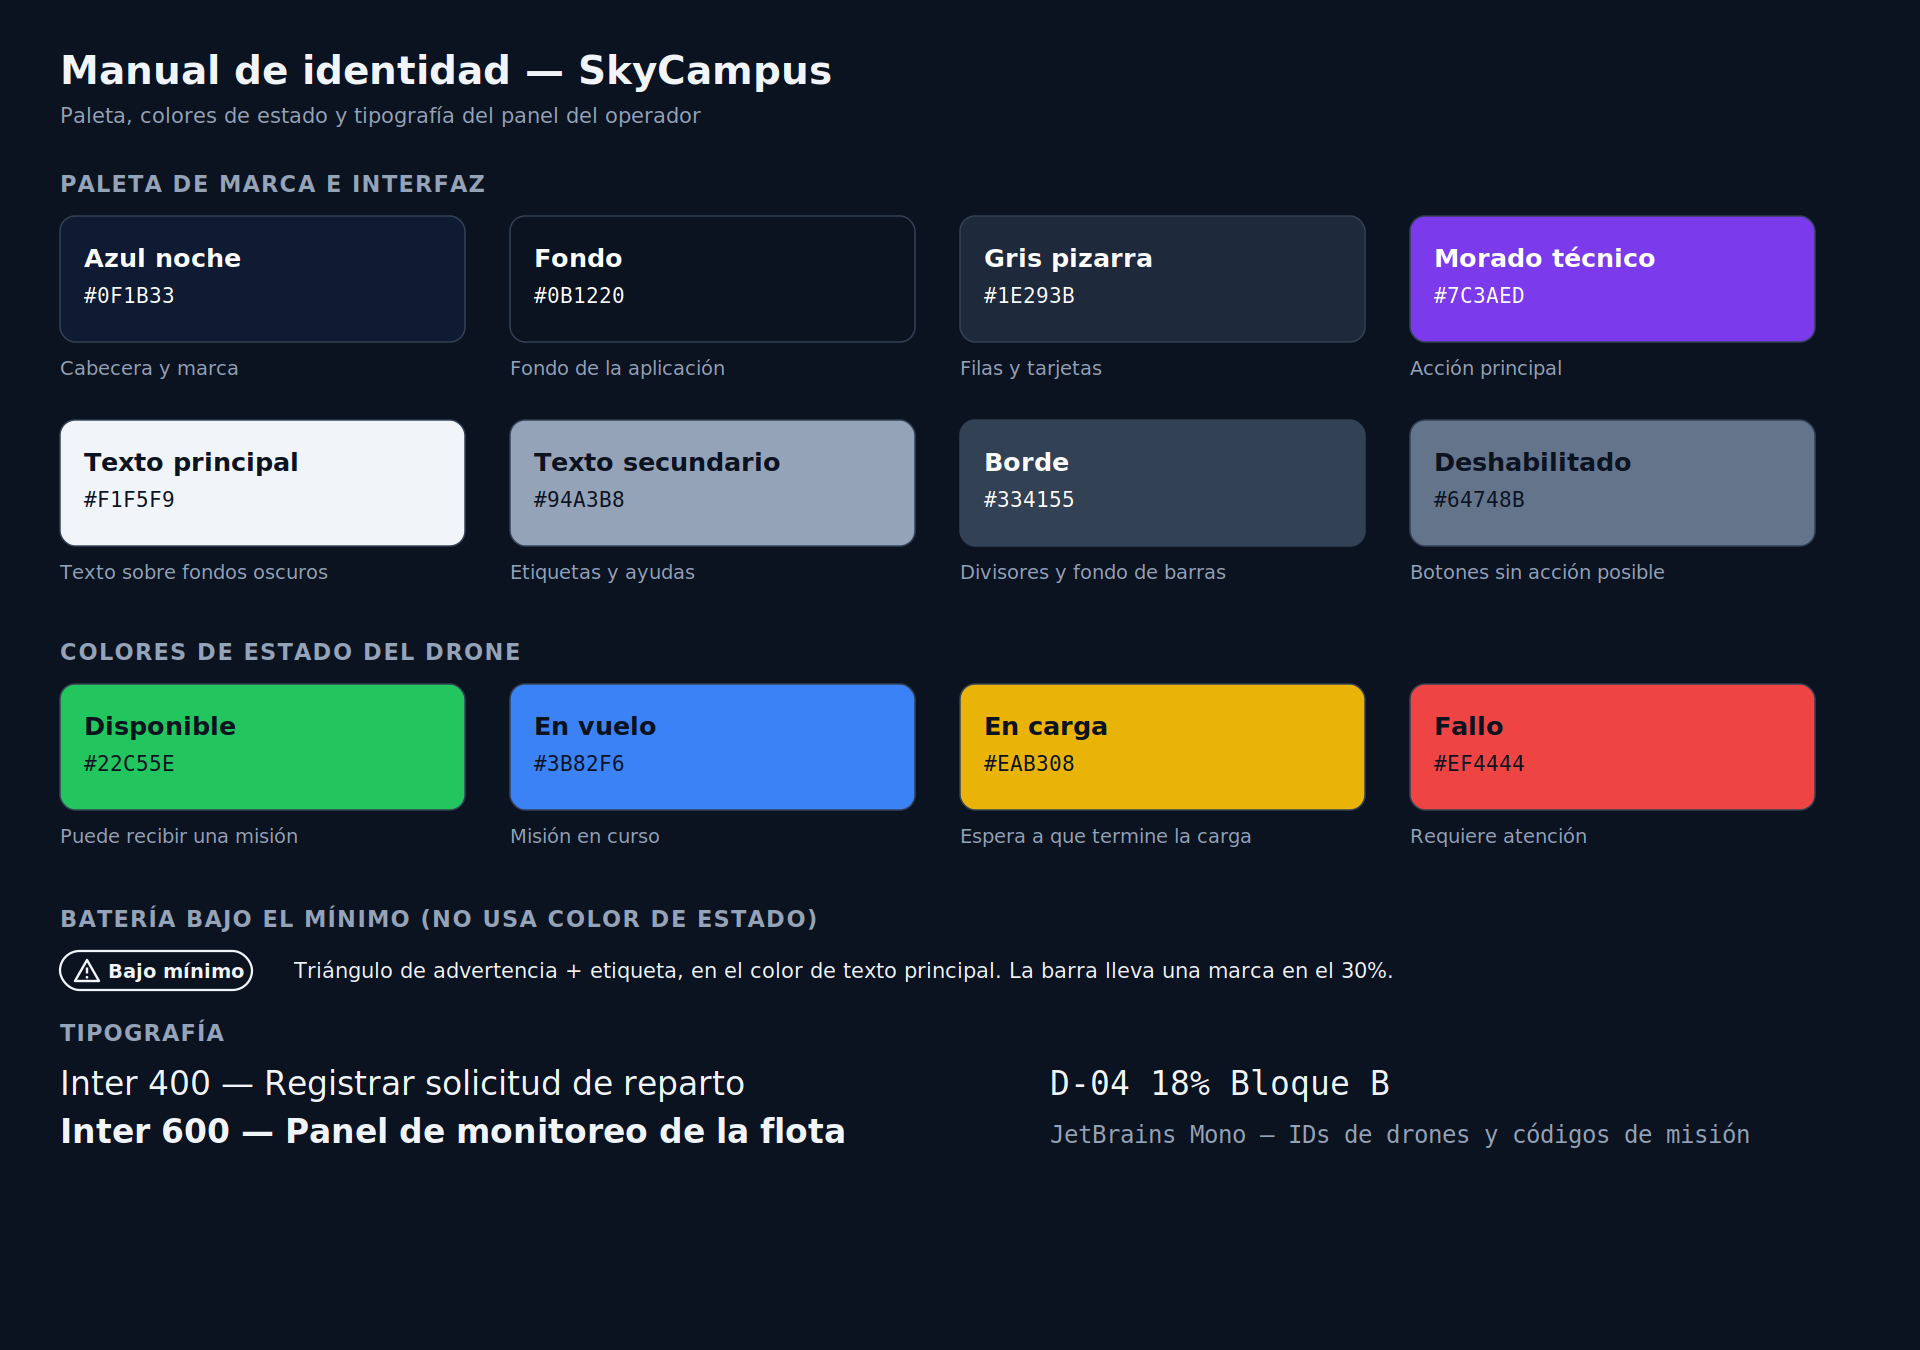
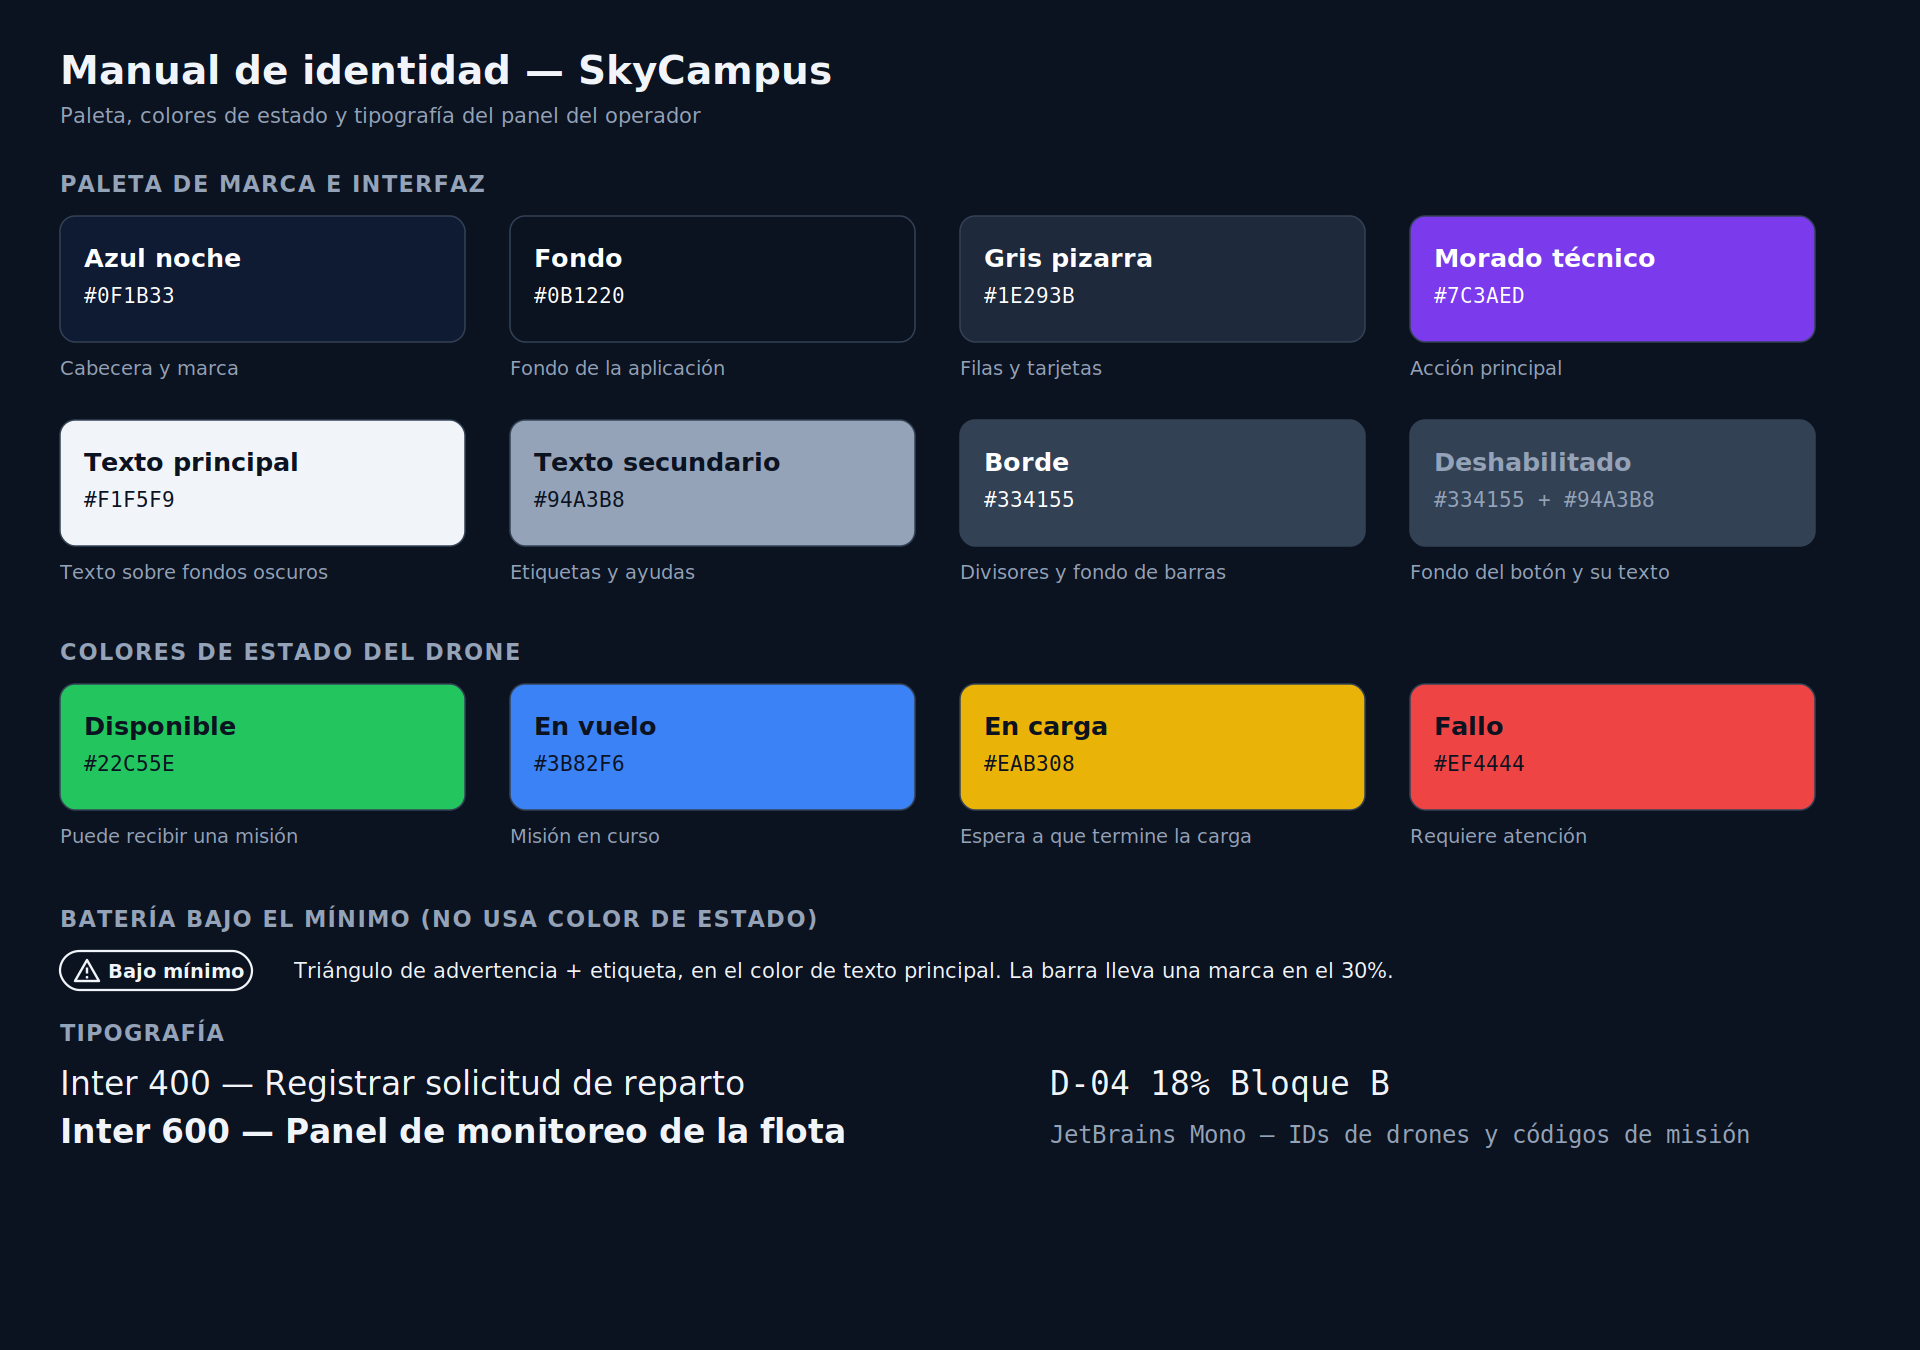
docs: escribe la razon bajo cada boton deshabilitado y mejora el contraste de su texto

Changed region(s): [[0.7188, 0.3111, 0.9688, 0.4356]]

diff --git a/docs/RETO08-MANUAL-IDENTIDAD.md b/docs/RETO08-MANUAL-IDENTIDAD.md
@@ -13,7 +13,7 @@
 | Texto principal | `#F1F5F9` | Texto sobre fondos oscuros | Máxima legibilidad |
 | Texto secundario | `#94A3B8` | Etiquetas y ayudas | Baja el peso visual sin perder legibilidad |
 | Borde | `#334155` | Divisores y fondo de las barras | |
-| Deshabilitado | `#64748B` | Botones sin acción posible | |
+| Deshabilitado | `#334155` (fondo) y `#94A3B8` (texto) | Botones sin acción posible | Se distingue del botón activo por el fondo; el texto se mejoró de 2,18:1 a 4,04:1 porque es la pista visible del botón |
 
 Decisión clave: el azul de marca es muy oscuro y el azul del estado "En vuelo" (`#3B82F6`) es más claro y solo aparece en ese estado. Así cada color tiene un único significado.
 
@@ -41,6 +41,7 @@ Contrastes del resto de la paleta (calculados con la fórmula de WCAG; el mínim
 | Texto secundario sobre gris pizarra | 5,71:1 |
 | Blanco sobre morado técnico | 5,70:1 |
 | Blanco sobre azul noche | 17,14:1 |
+| Texto del botón deshabilitado sobre su fondo | 4,04:1 (WCAG exime a los controles deshabilitados; supera el 3:1 de los componentes) |
 
 ## 3. Tipografía
 
@@ -80,6 +81,7 @@ El botón se habilita solo si el drone está Disponible y tiene al menos 30% de 
 Notas:
 - **Los estados son ilustrativos** para mostrar los cuatro colores y el caso de la batería baja. La batería y la ubicación son las de las demos de los retos anteriores. D-04 es Disponible con 18%, igual que en las demos y que el caso de RN-01 en SC-01; D-03 y D-05 aparecen con Fallo y En carga, aunque en el código son disponibles.
 - **El modelo todavía no distingue los cuatro estados.** El record `Drone` del repo solo tiene `disponible` (verdadero o falso). Para implementar este panel hará falta un dato de estado (por ejemplo `EstadoDrone`) o derivarlo de las misiones.
+- **Cada botón deshabilitado explica su razón** en una línea bajo la fila (en vuelo, fallo, en carga, batería bajo el mínimo).
 - **"Asignar misión"** abre el caso de uso SC-01 del reto 07.
 - **Fuentes del render:** la imagen usa DejaVu Sans y DejaVu Sans Mono como sustitutas, porque Inter y JetBrains Mono no estaban instaladas. La aplicación usa las del manual.
 
@@ -90,7 +92,7 @@ Notas:
 | 1 | Visibilidad del estado | Los 5 drones muestran su estado con un chip de color y su nombre, y la batería con una barra y su porcentaje. Todo se ve de un vistazo, sin clics. |
 | 2 | Coincidencia con el mundo real | Los estados están en español (Disponible, En vuelo, En carga, Fallo), las ubicaciones son las del campus (Bloque A, Biblioteca) y el botón usa el verbo del operador: "Asignar misión". |
 | 4 | Consistencia y estándares | Todas las filas tienen la misma estructura y el mismo orden. Cada color tiene un solo significado y los IDs siempre van en fuente monoespaciada. |
-| 5 | Prevención de errores | "Asignar misión" está deshabilitado en los 4 drones que no se pueden asignar: D-02 (en vuelo), D-03 (fallo), D-05 (en carga) y D-04, que sigue Disponible pero tiene 18% de batería, bajo el mínimo del 30%. Ese es el caso de la heurística: el drone aparece en la lista, pero queda bloqueado por la batería, y se avisa con el triángulo "Bajo mínimo" y la marca del 30% en la barra, antes de que el operador intente asignarlo. |
+| 5 | Prevención de errores | "Asignar misión" está deshabilitado en los 4 drones que no se pueden asignar: D-02 (en vuelo), D-03 (fallo), D-05 (en carga) y D-04, que sigue Disponible pero tiene 18% de batería, bajo el mínimo del 30%. Ese es el caso de la heurística: el drone aparece en la lista, pero queda bloqueado por la batería, y se avisa con el triángulo "Bajo mínimo" y la marca del 30% en la barra, antes de que el operador intente asignarlo. Los otros 3 bloqueos también escriben su razón bajo la fila. |
 | 6 | Reconocimiento antes que memorización | La leyenda de estados está siempre visible, el estado va en texto y el significado de la marca del 30% se explica al pie. El operador no tiene que recordar qué significa cada color. |
 | 8 | Diseño minimalista | Solo hay lo que el operador necesita para decidir: ID, estado, batería, ubicación y la acción. |
 | 9 | Mensajes de error claros | El motivo del bloqueo de D-04 dice qué drone, qué valor y cuál es el mínimo: "El drone D-04 tiene batería insuficiente (18%). Mínimo requerido: 30%.", y no "Error de asignación". |
